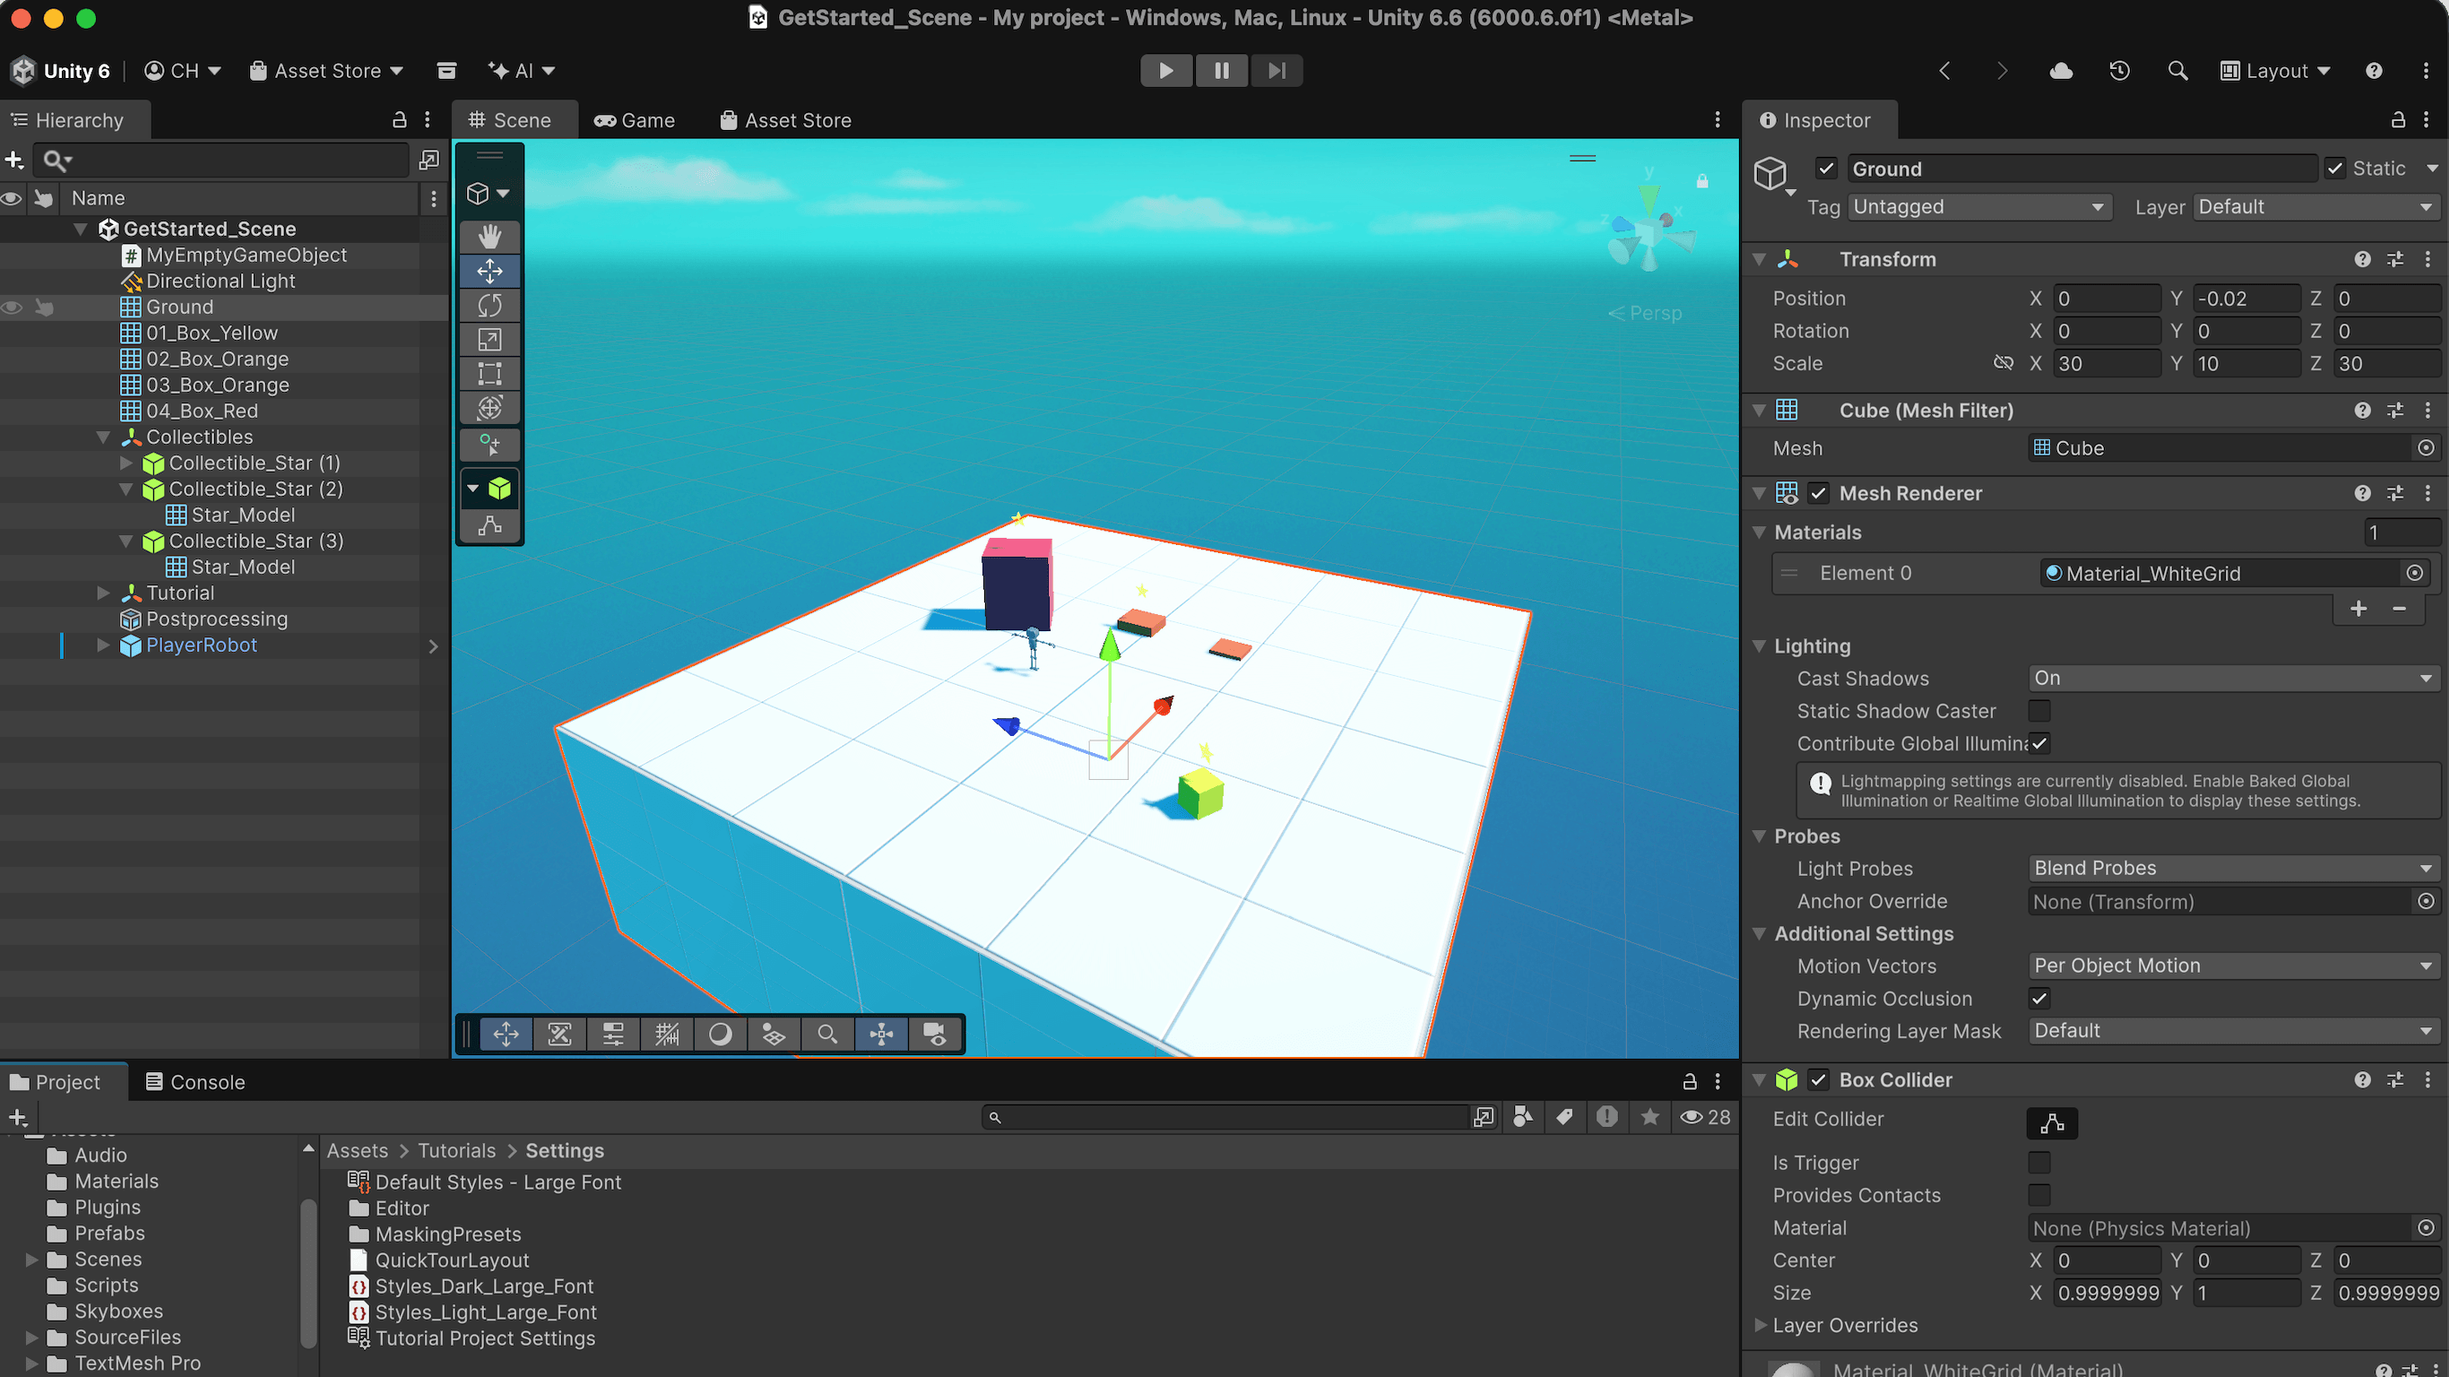
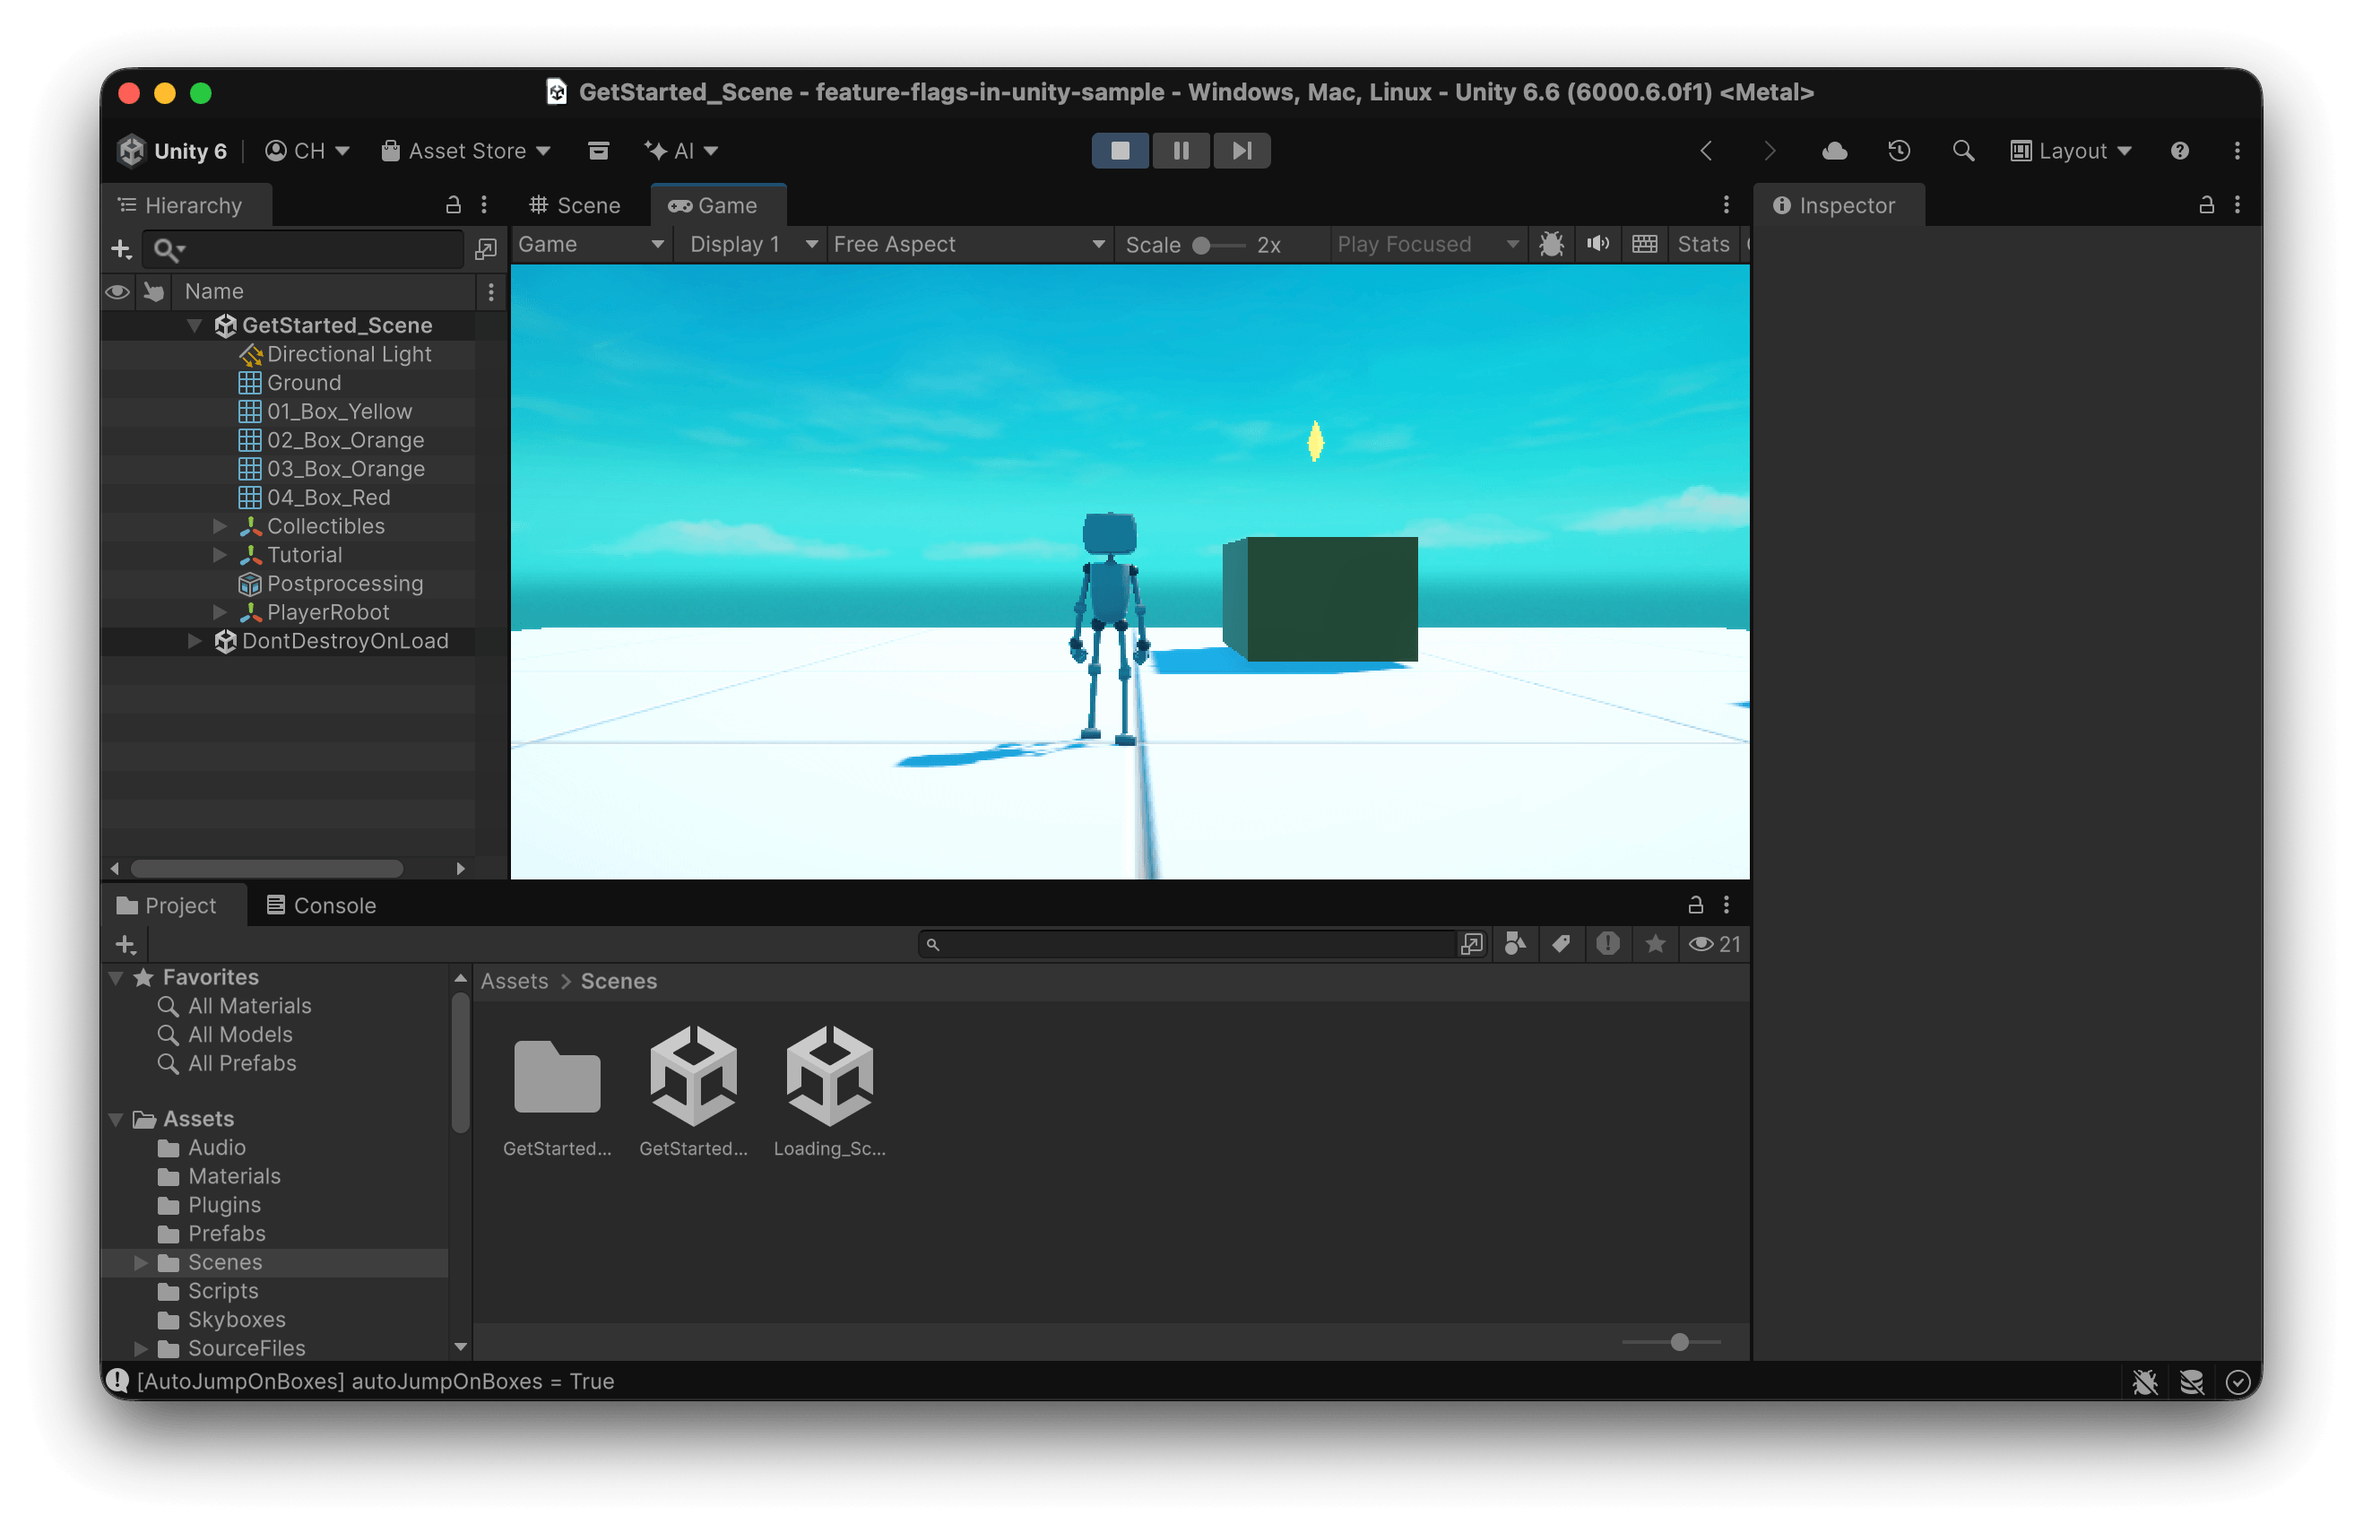
update: finalize readme

diff --git a/README.md b/README.md
@@ -28,13 +28,19 @@ This sample project demonstrates how to use ConfigCat feature flags in Unity wit
 
 3. Open Unity Hub, click **Add** > **Add project from disk**, select the cloned `feature-flags-in-unity-sample` folder, and open the project in Unity.
 
-4. In the **Project** window, go to `Assets/Scenes` and double-click `Loading_Scene` to open it, then click **Play**. The loading scene initializes the ConfigCat client and then loads `GetStarted_Scene` automatically.
+4. In the **Project** window, go to `Assets/Scenes` and double-click `Loading_Scene` to open it, then click **Play**. The loading scene runs the `SingletonServices.cs` script to initialize the ConfigCat client and then loads `GetStarted_Scene` automatically.
 
-    <img alt="Demo Unity project launched" src="demo-unity-project_192dpi.png" width="1366" height="768" decoding="async" loading="lazy" class="zoomable" />
+    <img alt="Demo Unity project launched" src="demo-unity-project_192dpi.png" width="1407" height="944" decoding="async" loading="lazy" class="zoomable" />
 
 5. Toggle the feature flag ON and OFF in your [ConfigCat Dashboard](https://app.configcat.com) to toggle the robot's jump behavior.
 
-  <img alt="Auto-jump robot behavior when feature flag is on" src="auto-jump-robot-behavior-flag-on_96dpi.gif" width="1200" height="866" decoding="async" loading="lazy" class="zoomable" />
+  When the feature flag is off:
+
+    <img alt="Player robot default behavior" src="player-robot-default-behavior_96dpi.gif" width="1200" height="805" decoding="async" loading="lazy" class="zoomable" />
+
+  When the feature flag is on:
+
+    <img alt="Player robot flag on behavior" src="player-robot-flag-on-behavior_96dpi.gif" width="1200" height="805" decoding="async" loading="lazy" class="zoomable" />
 
 ## Learn more
 
